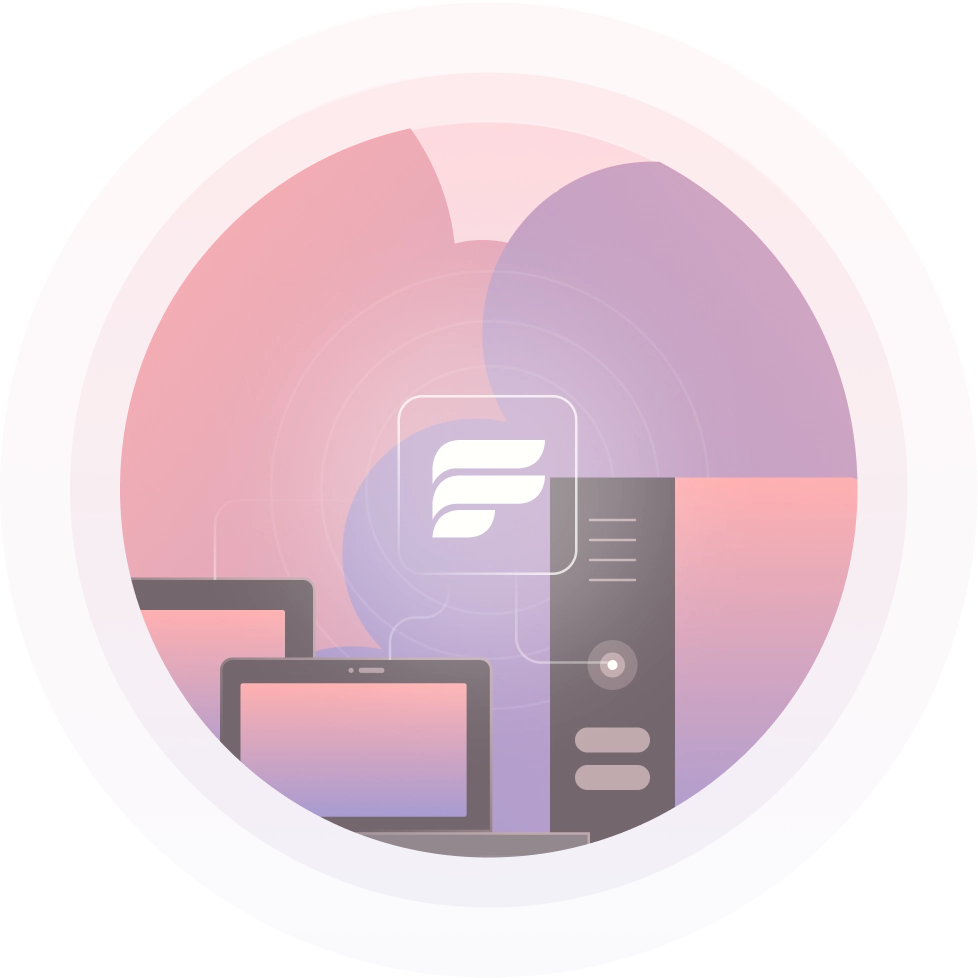
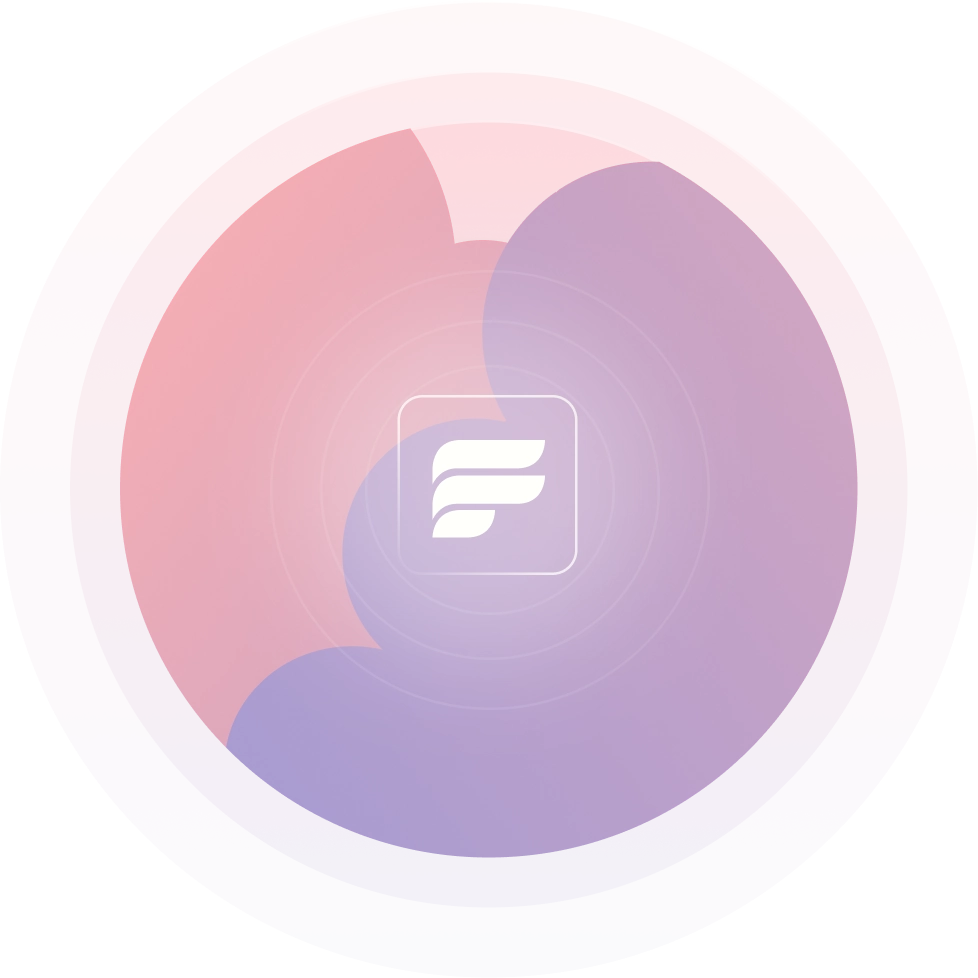
checkpoint: final about layout before deploy

Changed region(s): [[0.1227, 0.4908, 0.8896, 0.8896]]

diff --git a/src/routes/about.svelte b/src/routes/about.svelte
@@ -26,19 +26,19 @@
 <div id="about-container">
 	<div class="container">
 		<div class="spacer vert one" />
-		<picture class="image">
+		<div class="spacer vert one" />
+		<!-- <picture class="image">
 			<img src="/about-illus.webp" alt="An illustration of what we do summed up abstractly." />
-		</picture>
-		<h1>About Us</h1>
+		</picture> -->
+		<h1 class="text">About Us</h1>
 		<div class="spacer vert two" />
 		<h2 class="text">Who we are</h2>
 		<p>
-			Lorem ipsum dolor sit amet, consectetur adipiscing elit. Vivamus et sodales elit. Maecenas
-			quis sapien a lacus hendrerit imperdiet. Sed luctus bibendum enim, ut ornare magna sodales
-			non. Sed sed nisl in eros efficitur tristique venenatis sit amet turpis. Vivamus in tortor
-			elit. Aenean lacinia semper orci.
+			We are Feather Systems!<br />
+			So, Computers don’t work well together (especially across platforms). This leads to a lot of computer
+			hardware running tasks that they are not necessarily optimised for. We turn people’s computers
+			into routers for processing power, so that compute can happen where it is best for it to happen.
 		</p>
-		<div class="spacer vert one" />
 		<h2 class="text">What we do</h2>
 		<p>
 			Lorem ipsum dolor sit amet, consectetur adipiscing elit. Vivamus et sodales elit. Maecenas
@@ -46,7 +46,6 @@
 			non. Sed sed nisl in eros efficitur tristique venenatis sit amet turpis. Vivamus in tortor
 			elit. Aenean lacinia semper orci.
 		</p>
-		<div class="spacer vert one" />
 		<h2 class="text">Where we are going</h2>
 		<p>
 			Lorem ipsum dolor sit amet, consectetur adipiscing elit. Vivamus et sodales elit. Maecenas
@@ -54,12 +53,13 @@
 			non. Sed sed nisl in eros efficitur tristique venenatis sit amet turpis. Vivamus in tortor
 			elit. Aenean lacinia semper orci.
 		</p>
+		<h1>Our Team</h1>
 		<div class="spacer vert one" />
-		<h1 class="text">Our Team</h1>
+		<div class="spacer vert one" />
 		<div class="avatar-container">
 			{#each teamStruct as { name, title, picture }, i}
 				<div class="avatar-cards grow">
-					<div class="filter"/>
+					<div class="filter" />
 					<img src={picture} alt={name} />
 					<div class="name">{name}</div>
 					<div class="title">{title}</div>
@@ -86,30 +86,17 @@
 		@media screen and (max-width: $aboutbp) {
 			width: max(get-vw(660px), 90%);
 		}
-		.image {
-			margin: 0% 20%;
-			@media screen and (max-width: $bp) {
-				margin: 0%;
-			}
-			img {
-				width: 60%;
-				@media screen and (max-width: $bp) {
-					width: 100%;
-				}
-			}
-		}
 		.avatar-container {
 			display: grid;
-			grid-template-columns: 1fr  1fr;
+			grid-template-columns: 1fr 1fr;
 			grid-gap: get-vw(60px);
 			@media screen and (min-width: 1240px) {
-				grid-gap: min(get-vw(60px),60px);
+				grid-gap: min(get-vw(60px), 60px);
 			}
 			@media screen and (max-width: $bp) {
 				grid-template-columns: 1fr;
-				grid-gap: max(get-vw(60px),60px);
+				grid-gap: max(get-vw(60px), 60px);
 			}
-
 		}
 		.avatar-cards {
 			width: get-vw(300px);
@@ -133,9 +120,19 @@
 				position: absolute;
 				top: 0%;
 				left: 0%;
-				background-image: linear-gradient(0deg, #11131C 0%, rgba(240, 173, 183, 0) 56.28%, rgba(17, 19, 28, 0) 56.28%);
+				background-image: linear-gradient(
+					0deg,
+					#11131c 0%,
+					rgba(240, 173, 183, 0) 56.28%,
+					rgba(17, 19, 28, 0) 56.28%
+				);
 				@media screen and (max-width: $bp) {
-					background-image: linear-gradient(0deg, #11131ca5 0%, rgba(240, 173, 183, 0) 25%, rgba(17, 19, 28, 0) 56.28%);
+					background-image: linear-gradient(
+						0deg,
+						#11131ca5 0%,
+						rgba(240, 173, 183, 0) 25%,
+						rgba(17, 19, 28, 0) 56.28%
+					);
 				}
 			}
 			img {
@@ -164,10 +161,10 @@
 				line-height: 105%;
 				@media screen and (min-width: 1240px) {
 					font-size: min(get-vw(37px), 37px);
-					max-width: min(get-vw(180px),180px);
+					max-width: min(get-vw(180px), 180px);
 				}
 				@media screen and (max-width: $bp) {
-					max-width: max(get-vw(180px),180px);
+					max-width: max(get-vw(180px), 180px);
 					font-size: max(get-vw(37px), 37px);
 				}
 			}
@@ -186,11 +183,15 @@
 
 		//end
 		.goodbye-message {
-			height: 100vh;
+			height: 120vh;
 			display: grid;
 			place-items: center;
+			h1 {
+				text-align: center;
+				line-height: 101%;
+			}
 			@media screen and (min-width: 1240px) {
-				height: min(100vh, 660px);
+				height: min(150vh, 875px);
 			}
 			@media screen and (max-width: $bp) {
 				height: max(100vh, 660px);
@@ -201,48 +202,47 @@
 	// fonts and misc styling
 	h1 {
 		margin-top: get-vw(40px);
-		margin-bottom: get-vw(40px);
+		margin-bottom: 1.5%;
 		font-size: get-vw(89px);
-		text-align: center;
+		// text-align: center;
 
 		@media screen and (min-width: 1240px) {
 			font-size: min(get-vw(89px), 89px);
 			margin-top: min(get-vw(40px), 40px);
-			margin-bottom: min(get-vw(40px), 40px);
 		}
 		@media screen and (max-width: $bp) {
 			text-align: left;
 			font-size: max(get-vw(89px), 59px);
 			margin-top: max(get-vw(40px), 40px);
-			margin-bottom: max(get-vw(40px), 40px);
 		}
 	}
 	h1.text {
 		//gradient
-		background: linear-gradient(96.56deg, #fff2f0 49.86%, #fad8d5 67.3%);
+		background: linear-gradient(96.56deg, #fff2f0 0%, #fcafa8 25%, #f5938b 40%);
 		-webkit-background-clip: text;
 		background-clip: text;
 		-webkit-text-fill-color: transparent;
 	}
 	h2 {
-		margin: get-vw(20px), 0%;
+		margin: 2% 0% 1% 0%;
 		font-size: get-vw(37px);
 		@media screen and (min-width: 1240px) {
 			font-size: min(get-vw(37px), 37px);
-			margin: min(get-vw(20px), 20px) 0%;
 		}
 		@media screen and (max-width: $bp) {
 			font-size: max(get-vw(37px), 37px);
-			margin: max(get-vw(20px), 20px) 0%;
 		}
 	}
 	p {
+		opacity: 0.85;
 		font-size: 20px;
 		font-style: normal;
 		font-weight: 400;
-		line-height: 35px;
+		line-height: 1.75;
 		letter-spacing: 0em;
 		text-align: left;
+		margin-top: 0.5%;
+		margin-bottom: 7%;
 	}
 
 	// spacers
@@ -259,9 +259,9 @@
 		}
 	}
 	.vert.two {
-		height: get-vw(55px);
+		height: get-vw(5px);
 		@media screen and (min-width: 1240px) {
-			height: min(get-vw(55px), 55px);
+			height: min(get-vw(5px), 5px);
 		}
 		@media screen and (max-width: $bp) {
 			height: 0px;

diff --git a/src/app.scss b/src/app.scss
@@ -93,9 +93,10 @@ button:hover {
 }
 
 .slot p {
+	opacity: 0.85;
 	font-size: get-vw(20px);
 	font-style: normal;
-	font-weight: 250;
+	font-weight: 400;
 	line-height: 1.75;
 	letter-spacing: 0em;
 	text-align: left;
